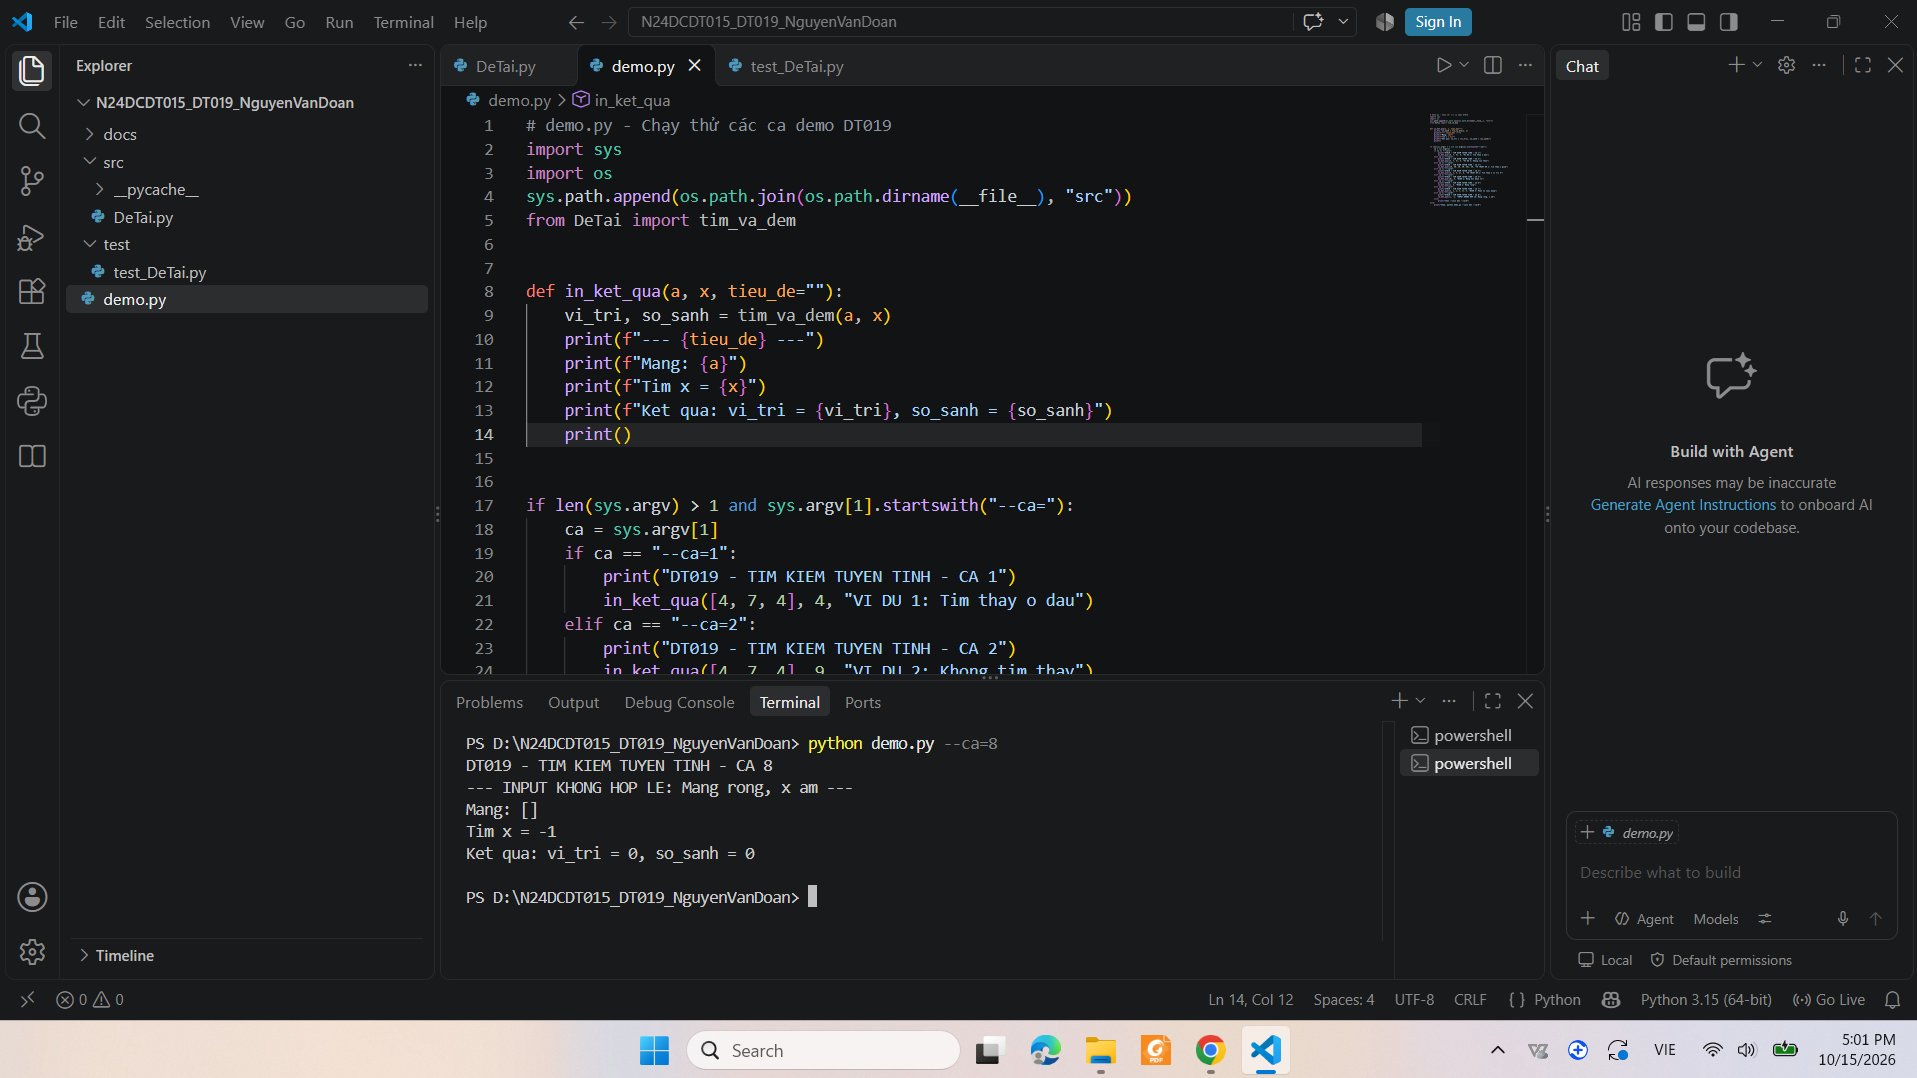
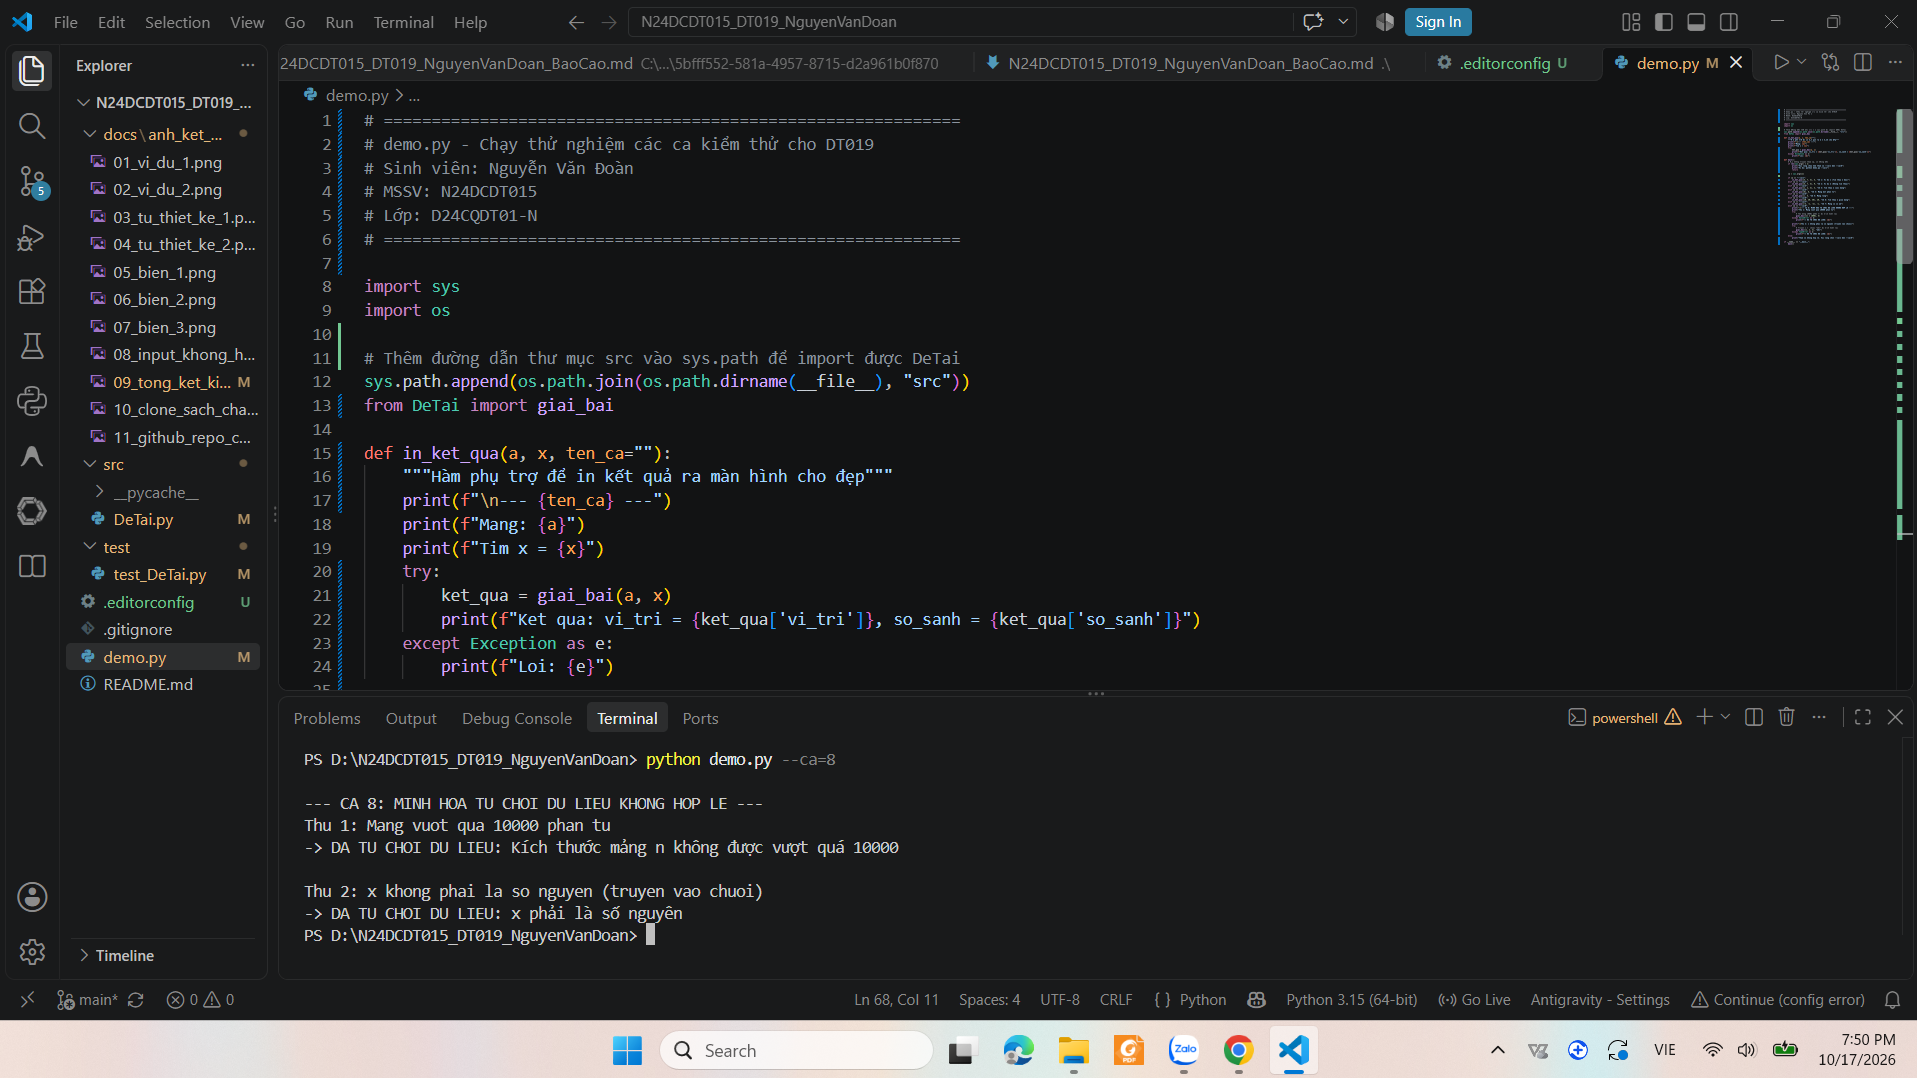
Them anh minh chung va bao cao

diff --git a/demo.py b/demo.py
@@ -1,46 +1,68 @@
-# demo.py - Chạy thử các ca demo DT019
+# ============================================================
+# demo.py - Chạy thử nghiệm các ca kiểm thử cho DT019
+# Sinh viên: Nguyễn Văn Đoàn
+# MSSV: N24DCDT015
+# Lớp: D24CQDT01-N
+# ============================================================
+
 import sys
 import os
+
+# Thêm đường dẫn thư mục src vào sys.path để import được DeTai
 sys.path.append(os.path.join(os.path.dirname(__file__), "src"))
-from DeTai import tim_va_dem
+from DeTai import giai_bai
 
-
-def in_ket_qua(a, x, tieu_de=""):
-    vi_tri, so_sanh = tim_va_dem(a, x)
-    print(f"--- {tieu_de} ---")
+def in_ket_qua(a, x, ten_ca=""):
+    """Hàm phụ trợ để in kết quả ra màn hình cho đẹp"""
+    print(f"\n--- {ten_ca} ---")
     print(f"Mang: {a}")
     print(f"Tim x = {x}")
-    print(f"Ket qua: vi_tri = {vi_tri}, so_sanh = {so_sanh}")
-    print()
+    try:
+        ket_qua = giai_bai(a, x)
+        print(f"Ket qua: vi_tri = {ket_qua['vi_tri']}, so_sanh = {ket_qua['so_sanh']}")
+    except Exception as e:
+        print(f"Loi: {e}")
 
+def main():
+    # Nếu không truyền tham số, in hướng dẫn
+    if len(sys.argv) < 2:
+        print("Vui long chay kem tham so --ca=1 den --ca=8")
+        print("Vi du: python demo.py --ca=1")
+        return
 
-if len(sys.argv) > 1 and sys.argv[1].startswith("--ca="):
     ca = sys.argv[1]
+
     if ca == "--ca=1":
-        print("DT019 - TIM KIEM TUYEN TINH - CA 1")
-        in_ket_qua([4, 7, 4], 4, "VI DU 1: Tim thay o dau")
+        in_ket_qua([4, 7, 4], 4, "CA 1: Vi du 1 (Tim thay o dau)")
     elif ca == "--ca=2":
-        print("DT019 - TIM KIEM TUYEN TINH - CA 2")
-        in_ket_qua([4, 7, 4], 9, "VI DU 2: Khong tim thay")
+        in_ket_qua([4, 7, 4], 9, "CA 2: Vi du 2 (Khong tim thay)")
     elif ca == "--ca=3":
-        print("DT019 - TIM KIEM TUYEN TINH - CA 3")
-        in_ket_qua([10, 20, 30, 40, 50], 30, "TU THIET KE 1: Tim thay o giua")
+        in_ket_qua([1, 2, 3], 3, "CA 3: Tim thay o cuoi mang")
     elif ca == "--ca=4":
-        print("DT019 - TIM KIEM TUYEN TINH - CA 4")
-        in_ket_qua([5, 3, 8, 1], 8, "TU THIET KE 2: Tim thay o vi tri 3")
+        in_ket_qua([8], 8, "CA 4: Mang mot phan tu")
     elif ca == "--ca=5":
-        print("DT019 - TIM KIEM TUYEN TINH - CA 5")
-        in_ket_qua([8], 8, "BIEN 1: Mang mot phan tu")
+        in_ket_qua([], 5, "CA 5: Mang rong")
     elif ca == "--ca=6":
-        print("DT019 - TIM KIEM TUYEN TINH - CA 6")
-        in_ket_qua([], 5, "BIEN 2: Mang rong")
+        in_ket_qua([10, 20, 30], 20, "CA 6: Tim thay o giua mang")
     elif ca == "--ca=7":
-        print("DT019 - TIM KIEM TUYEN TINH - CA 7")
-        in_ket_qua([1, 2, 3, 4, 5], 5, "BIEN 3: Phan tu cuoi mang")
+        in_ket_qua([-3, -1, -2], -1, "CA 7: Mang co so am")
     elif ca == "--ca=8":
-        print("DT019 - TIM KIEM TUYEN TINH - CA 8")
-        in_ket_qua([], -1, "INPUT KHONG HOP LE: Mang rong, x am")
+        print("\n--- CA 8: MINH HOA TU CHOI DU LIEU KHONG HOP LE ---")
+        print("Thu 1: Mang vuot qua 10000 phan tu")
+        try:
+            # Tạo mảng 10001 phần tử để kích hoạt lỗi
+            giai_bai([1] * 10001, 5)
+        except ValueError as e:
+            print(f"-> DA TU CHOI DU LIEU: {e}")
+        
+        print("\nThu 2: x khong phai la so nguyen (truyen vao chuoi)")
+        try:
+            # Truyền x là chuỗi "abc" để kích hoạt lỗi
+            giai_bai([1, 2, 3], "abc")
+        except TypeError as e:
+            print(f"-> DA TU CHOI DU LIEU: {e}")
     else:
-        print("Chon --ca=1 den --ca=8")
-else:
-    print("Chay: python demo.py --ca=1 den --ca=8")
+        print("Tham so khong hop le. Vui long chon --ca=1 den --ca=8")
+
+if __name__ == "__main__":
+    main()

diff --git a/src/DeTai.py b/src/DeTai.py
@@ -5,71 +5,52 @@
 # Lớp: D24CQDT01-N
 # ============================================================
 
+def kiem_tra_dau_vao(a, x):
+    """
+    Kiểm tra dữ liệu đầu vào theo phiếu DT019:
+    - Kích thước mảng n từ 0 đến 10000
+    - x phải là số nguyên
+    """
+    if len(a) > 10000:
+        raise ValueError("Kích thước mảng n không được vượt quá 10000")
+    if not isinstance(x, int):
+        raise TypeError("x phải là số nguyên")
+    return True
 
 def tim_tuyen_tinh(a, x):
     """
     Tìm vị trí đầu tiên của x trong mảng a (1-based).
     Trả về 0 nếu không tìm thấy.
-
-    Tham số:
-    - a: list[int] - mảng số nguyên
-    - x: int - giá trị cần tìm
-
-    Trả về:
-    - int: vị trí (1-based) hoặc 0
     """
     for i in range(len(a)):
         if a[i] == x:
-            return i + 1   # Python 0-based -> chuyển sang 1-based
+            return i + 1
     return 0
-
 
 def tim_va_dem(a, x):
     """
-    Tìm vị trí đầu tiên của x và đếm số phép so sánh.
-    Dừng ngay khi tìm thấy.
-
-    Tham số:
-    - a: list[int] - mảng số nguyên
-    - x: int - giá trị cần tìm
-
-    Trả về:
-    - tuple (vi_tri, so_sanh)
+    Tìm vị trí đầu tiên của x và đếm số phép so sánh thực tế.
     """
-    dem = 0
+    so_sanh = 0
     for i in range(len(a)):
-        dem += 1                # Tăng đếm TRƯỚC khi so sánh
+        so_sanh += 1
         if a[i] == x:
-            return (i + 1, dem) # 1-based
-    return (0, dem)
+            return i + 1, so_sanh
+    return 0, so_sanh
 
-
-def trung_binh_so_sanh(a):
+def trung_binh_so_sanh(n):
     """
-    Tính trung bình số so sánh khi tìm mỗi phần tử trong mảng.
-    Áp dụng cho mảng phân biệt, mỗi phần tử đều có mặt.
-
-    Tham số:
-    - a: list[int] - mảng phân biệt
-
-    Trả về:
-    - float: trung bình số so sánh
+    Tính số phép so sánh trung bình lý thuyết (n+1)/2.
+    Điều kiện: các phần tử trong mảng phân biệt và x chắc chắn có trong mảng.
     """
-    n = len(a)
     if n == 0:
         return 0.0
-    tong = 0
-    for x in a:
-        _, dem = tim_va_dem(a, x)
-        tong += dem
-    return tong / n
+    return (n + 1) / 2.0
 
-
-def kiem_tra_mang(a):
+def giai_bai(a, x):
     """
-    Kiểm tra mảng không rỗng.
-
-    Trả về:
-    - bool: True nếu hợp lệ, False nếu rỗng
+    Hàm gọi chính thực hiện toàn bộ quy trình bài toán.
     """
-    return len(a) > 0
+    kiem_tra_dau_vao(a, x)
+    vi_tri, so_sanh = tim_va_dem(a, x)
+    return {"vi_tri": vi_tri, "so_sanh": so_sanh}

diff --git a/test/test_DeTai.py b/test/test_DeTai.py
@@ -10,7 +10,7 @@ import os
 
 # Thêm đường dẫn src/ vào sys.path để import được DeTai
 sys.path.append(os.path.join(os.path.dirname(__file__), "..", "src"))
-from DeTai import tim_tuyen_tinh, tim_va_dem, trung_binh_so_sanh, kiem_tra_mang
+from DeTai import tim_tuyen_tinh, tim_va_dem, trung_binh_so_sanh, kiem_tra_dau_vao
 
 
 class TestDT019(unittest.TestCase):
@@ -65,12 +65,19 @@ class TestDT019(unittest.TestCase):
 
     def test_T11_trung_binh_so_sanh(self):
         """T11: Trung bình số so sánh với n=5 phải bằng 3.0"""
-        self.assertAlmostEqual(trung_binh_so_sanh([1, 2, 3, 4, 5]), 3.0, places=5)
+        # Sửa lại: Hàm trung_binh_so_sanh giờ nhận vào số nguyên n, không phải mảng
+        self.assertAlmostEqual(trung_binh_so_sanh(5), 3.0, places=5)
 
-    def test_T12_kiem_tra_mang(self):
-        """T12: Hàm kiem_tra_mang trả False cho mảng rỗng"""
-        self.assertFalse(kiem_tra_mang([]))
-        self.assertTrue(kiem_tra_mang([1, 2, 3]))
+    def test_T12_kiem_tra_dau_vao(self):
+        """T12: Hàm validator phải chặn mảng quá lớn và x không phải số nguyên"""
+        # Mảng > 10000 phần tử phải báo lỗi ValueError
+        with self.assertRaises(ValueError):
+            kiem_tra_dau_vao([1] * 10001, 5)
+        # x không phải số nguyên phải báo lỗi TypeError
+        with self.assertRaises(TypeError):
+            kiem_tra_dau_vao([1, 2, 3], "abc")
+        # Mảng hợp lệ phải trả về True
+        self.assertTrue(kiem_tra_dau_vao([1, 2, 3], 5))
 
     # ========================================================
     # 4 KIỂM TRA BỔ SUNG (VALIDATOR / BẤT BIẾN)
@@ -93,9 +100,8 @@ class TestDT019(unittest.TestCase):
 
     def test_V04_trung_binh_khop_cong_thuc(self):
         """V04: Trung bình phải khớp (n+1)/2 với mảng phân biệt"""
-        a = [1, 2, 3, 4, 5, 6, 7]
-        n = len(a)
-        tb = trung_binh_so_sanh(a)
+        n = 7
+        tb = trung_binh_so_sanh(n) # Sửa lại: Truyền n vào
         self.assertAlmostEqual(tb, (n + 1) / 2, places=5)
 
 
